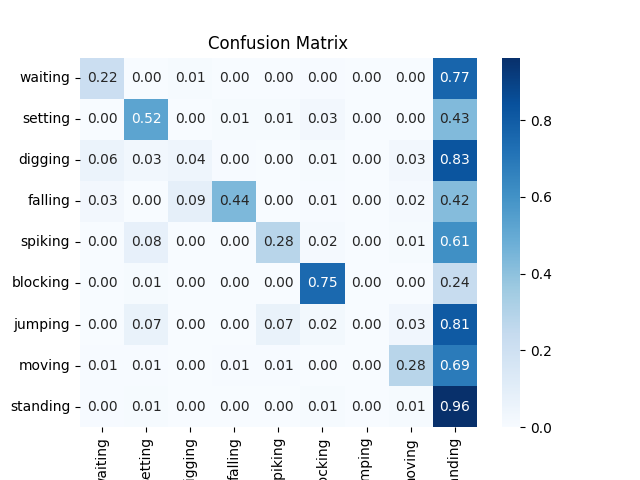
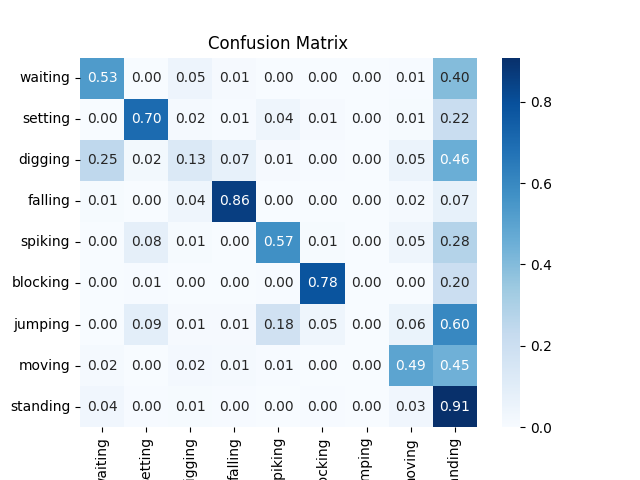
update

diff --git a/train/b3_group_classifier.py b/train/b3_group_classifier.py
@@ -86,13 +86,11 @@ group_dict = config_dict['dataset']['group_classes']
 
 train_transform = transforms.Compose([
     transforms.Resize((256,256)),
-    transforms.RandomResizedCrop(
-        (224, 224),
-        scale=(0.8, 1.0),
-        ratio=(0.9, 1.1)
-    ),
+    transforms.RandomCrop((224, 224)),
 
-    transforms.GaussianBlur(kernel_size=3, sigma=(0.1, 2.0)),
+    transforms.RandomApply([
+        transforms.GaussianBlur(kernel_size=3, sigma=(0.1, 1.0))
+    ], p=0.2),
     
     transforms.ToTensor(),
 